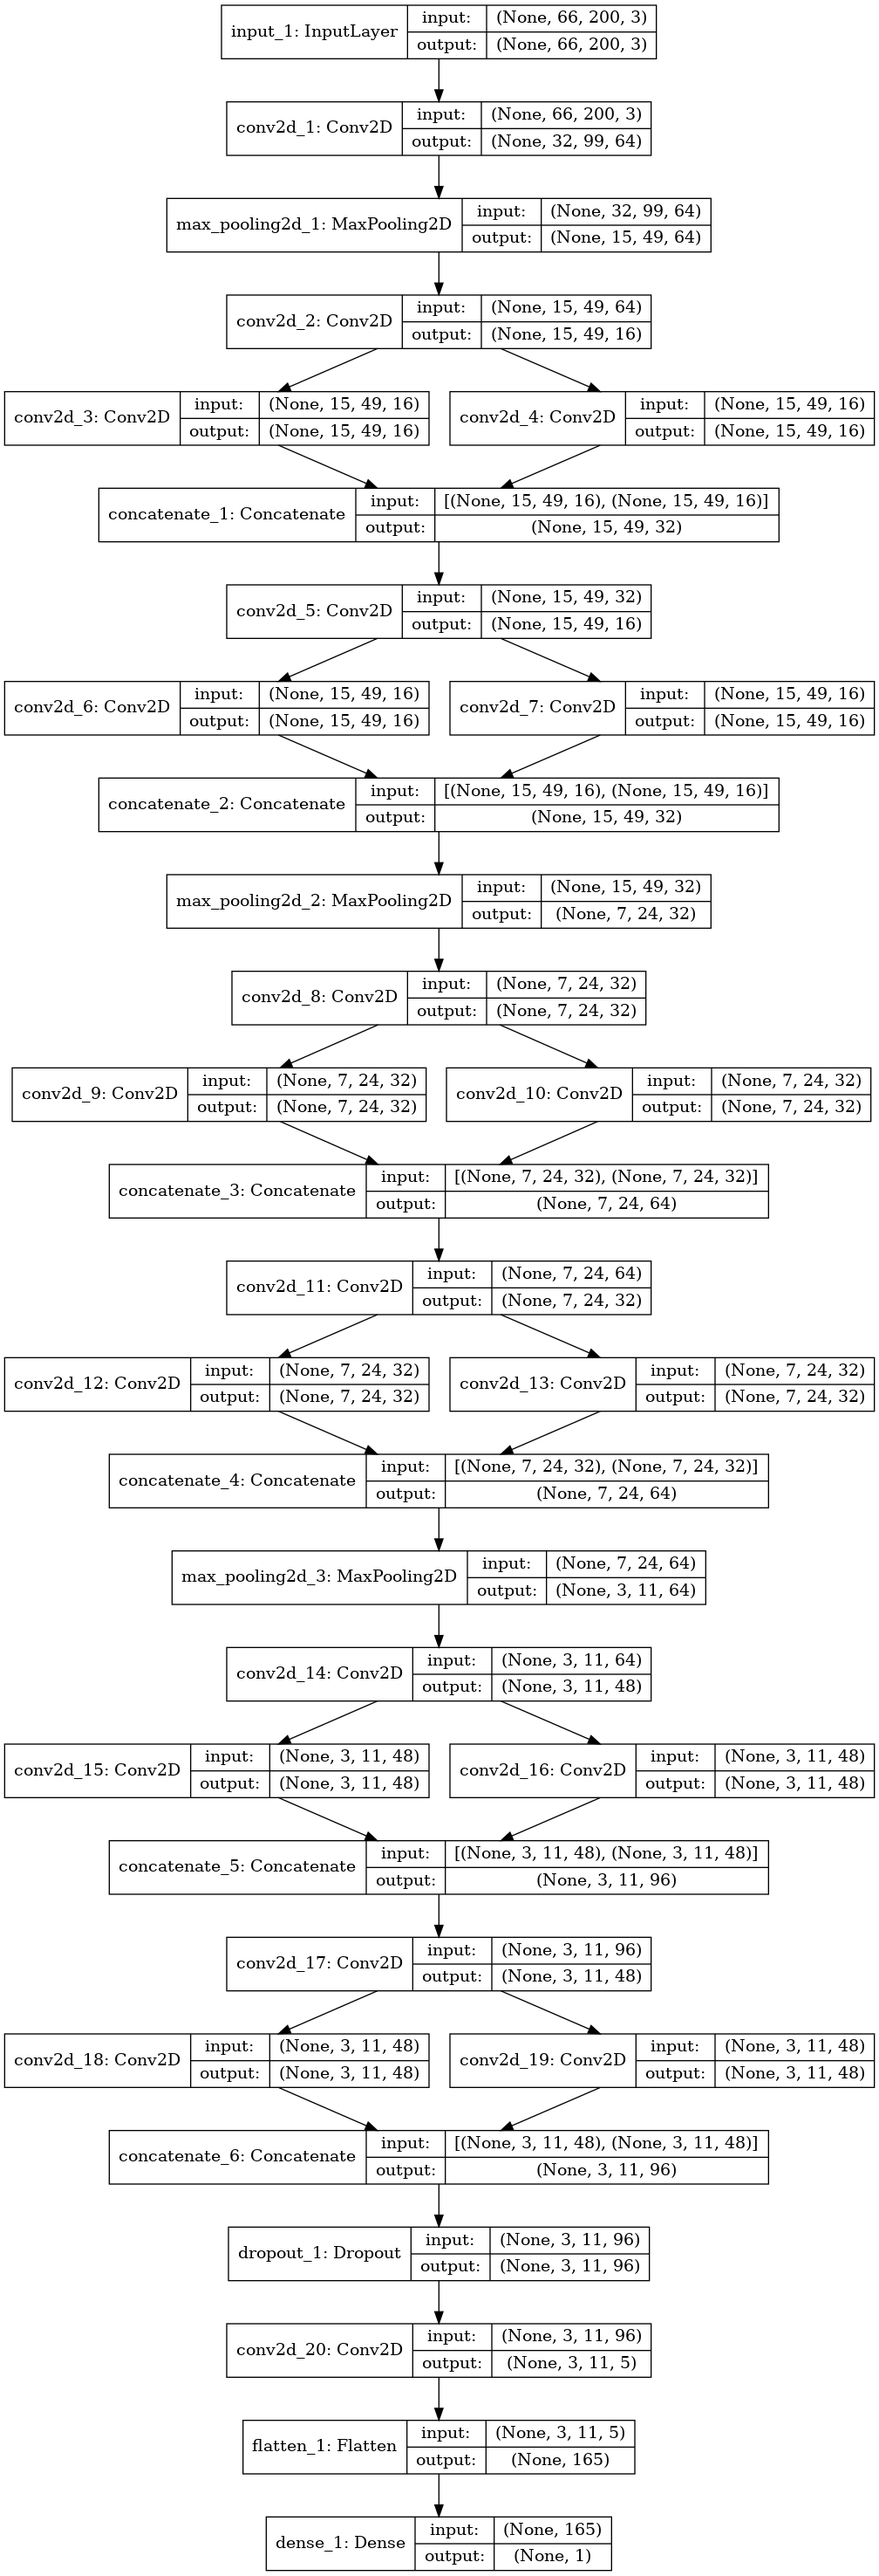
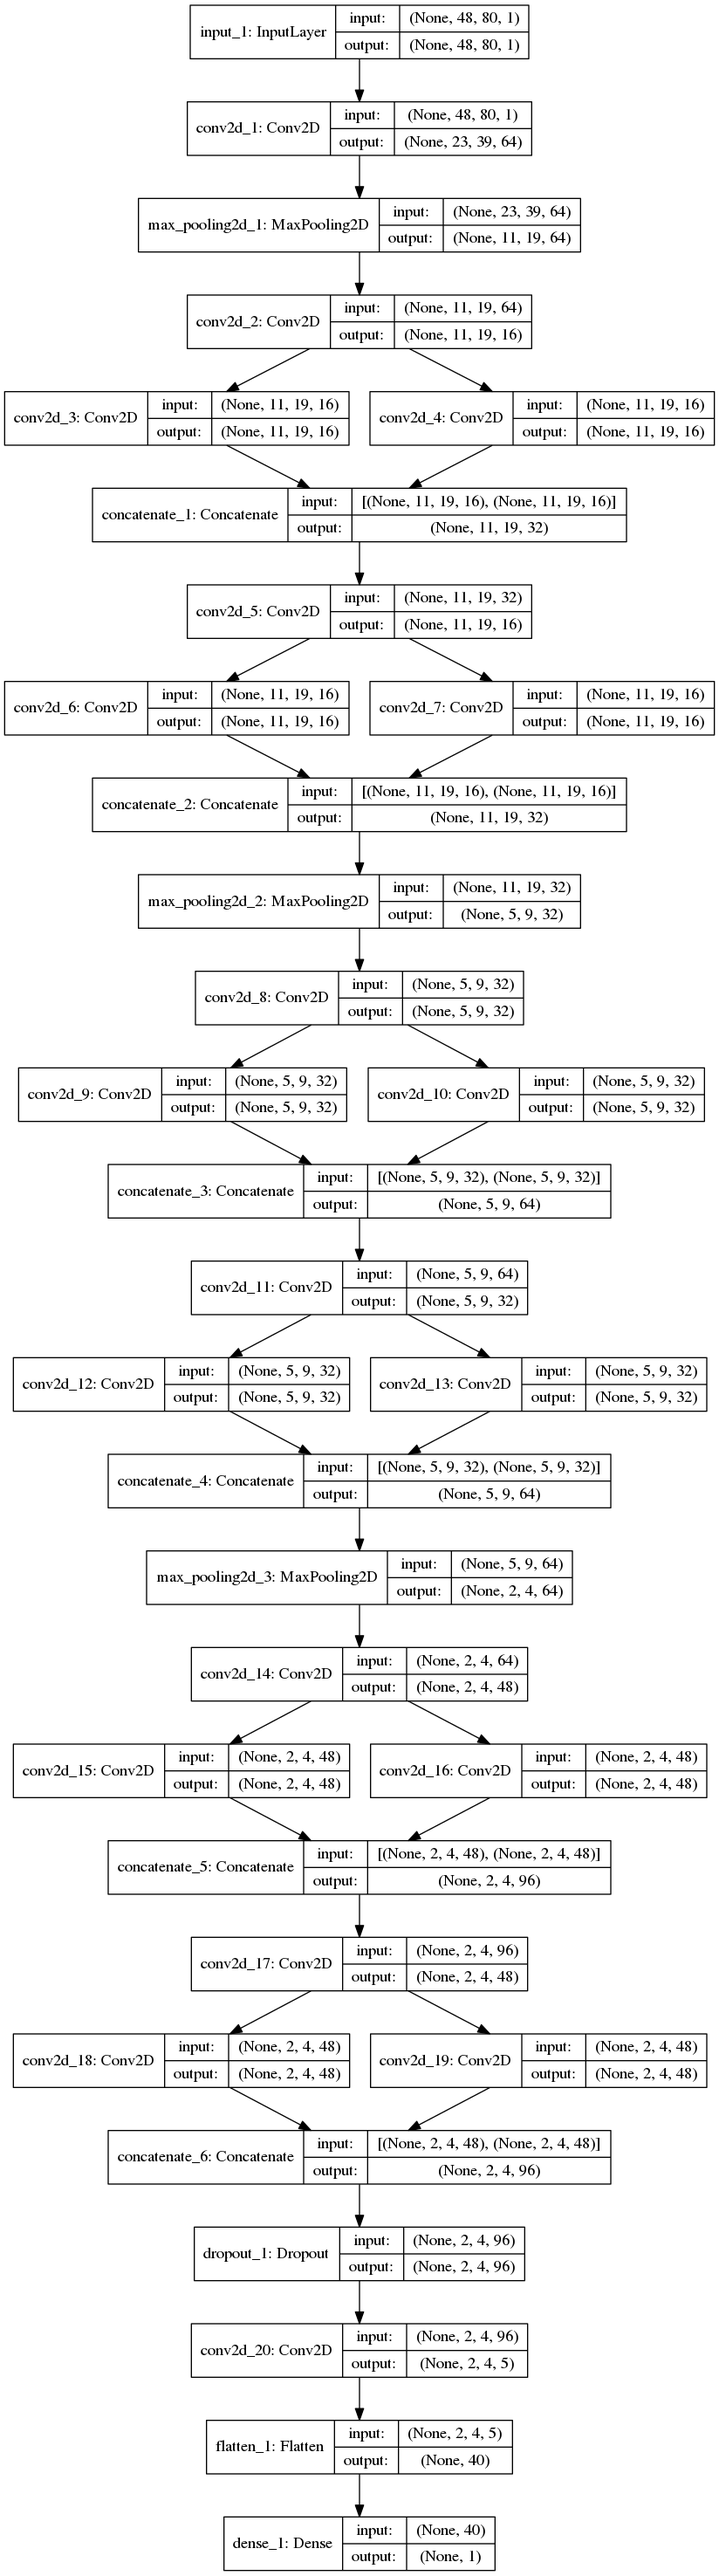
Train 1 chan

diff --git a/main/sq_next/sq_next_model.py b/main/sq_next/sq_next_model.py
@@ -54,7 +54,6 @@ def build_model(args):
     img_input = Input(shape=INPUT_SHAPE)
 
     x = Conv2D(64, (3, 3), activation='elu', strides=(2, 2), padding='valid')(img_input)
-    #x = Activation('elu')(x)
     x = MaxPooling2D(pool_size=(3, 3), strides=(2, 2))(x)
 
     x = fire(x, squeeze=16, expand=16)
@@ -67,8 +66,6 @@ def build_model(args):
 
     x = fire(x, squeeze=48, expand=48)
     x = fire(x, squeeze=48, expand=48)
-    #x = fire(x, squeeze=64, expand=64)
-    #x = fire(x, squeeze=64, expand=64)
     x = Dropout(args.keep_prob)(x)
 
     x = Conv2D(5, (1, 1), activation='elu', padding='valid')(x)

diff --git a/main/sq_lite_net/nvi_utils.py b/main/sq_lite_net/nvi_utils.py
@@ -184,7 +184,8 @@ def batch_generator(data_dir, image_paths, steering_angles, batch_size,
                 image = load_image(data_dir, center, crop)
                 image = resize(image)
             # add the image and steering angle to the batch
-            images[i] = (preprocess(image)[:,:,0]).reshape(IMAGE_HEIGHT, IMAGE_WIDTH, IMAGE_CHANNELS)
+            #images[i] = preprocess(image)
+            images[i] = (image[:,:,0]).reshape(IMAGE_HEIGHT, IMAGE_WIDTH, IMAGE_CHANNELS)
             steers[i] = steering_angle
             i += 1
 

diff --git a/main/sq_lite_net/squeeze_model.py b/main/sq_lite_net/squeeze_model.py
@@ -50,6 +50,8 @@ def build_model(args):
     """
     img_input = Input(shape=INPUT_SHAPE)
 
+
+    #x = Lambda(lambda x: x/127.5-1.0, input_shape=INPUT_SHAPE)(img_input)
     x = Conv2D(64, (3, 3), activation='relu', strides=(2, 2), padding='valid')(img_input)
     x = MaxPooling2D(pool_size=(3, 3), strides=(2, 2))(x)
 
